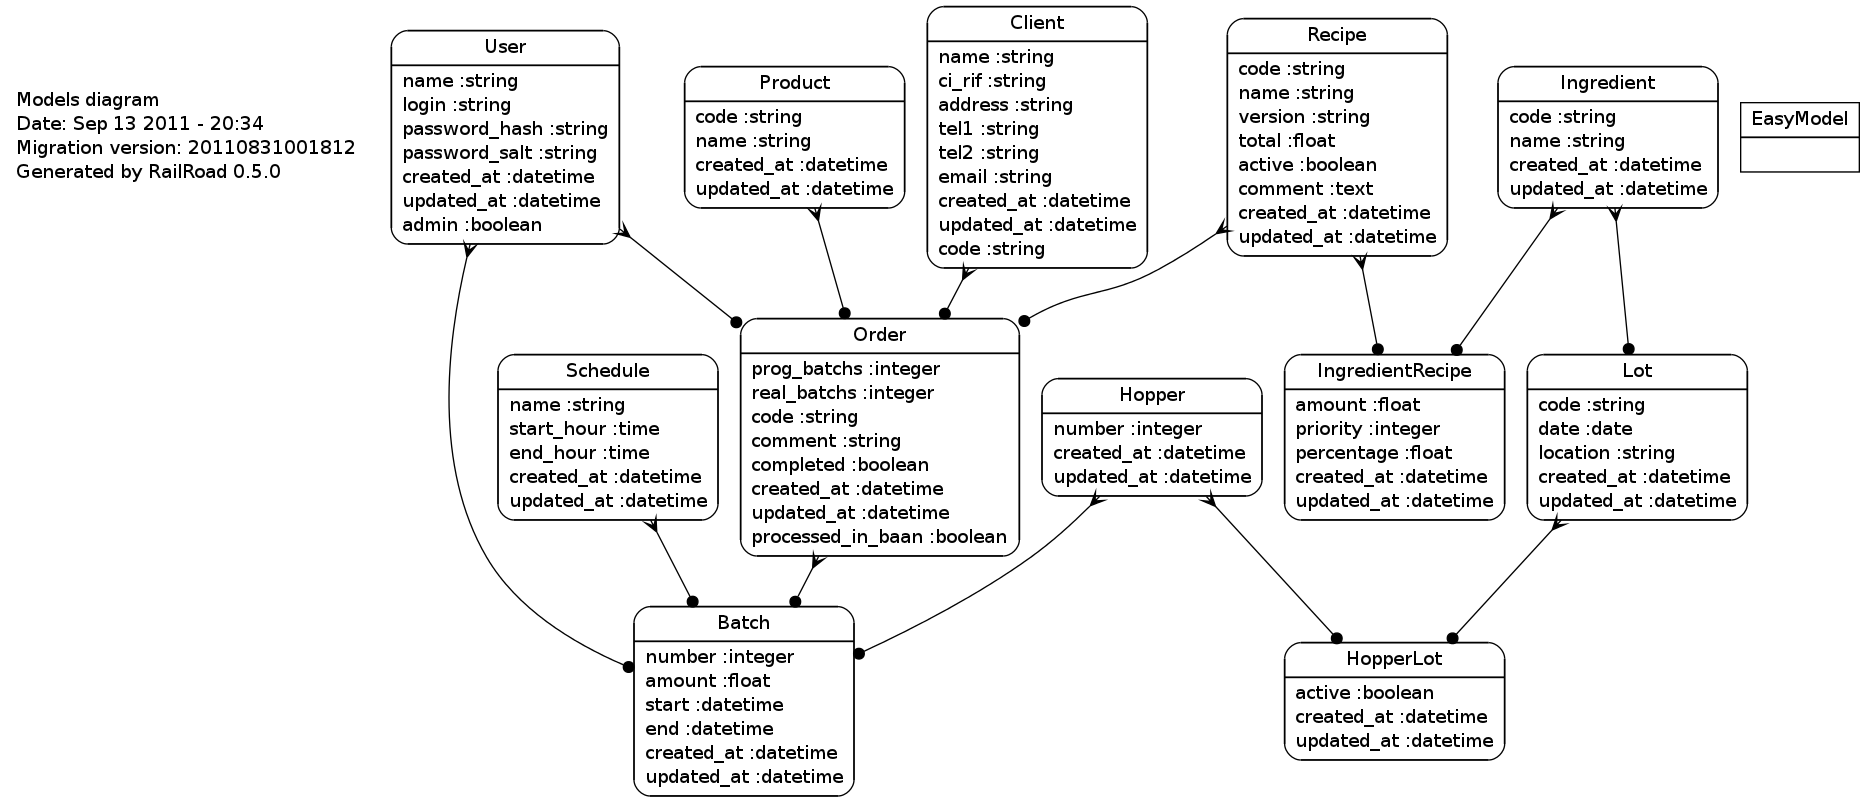
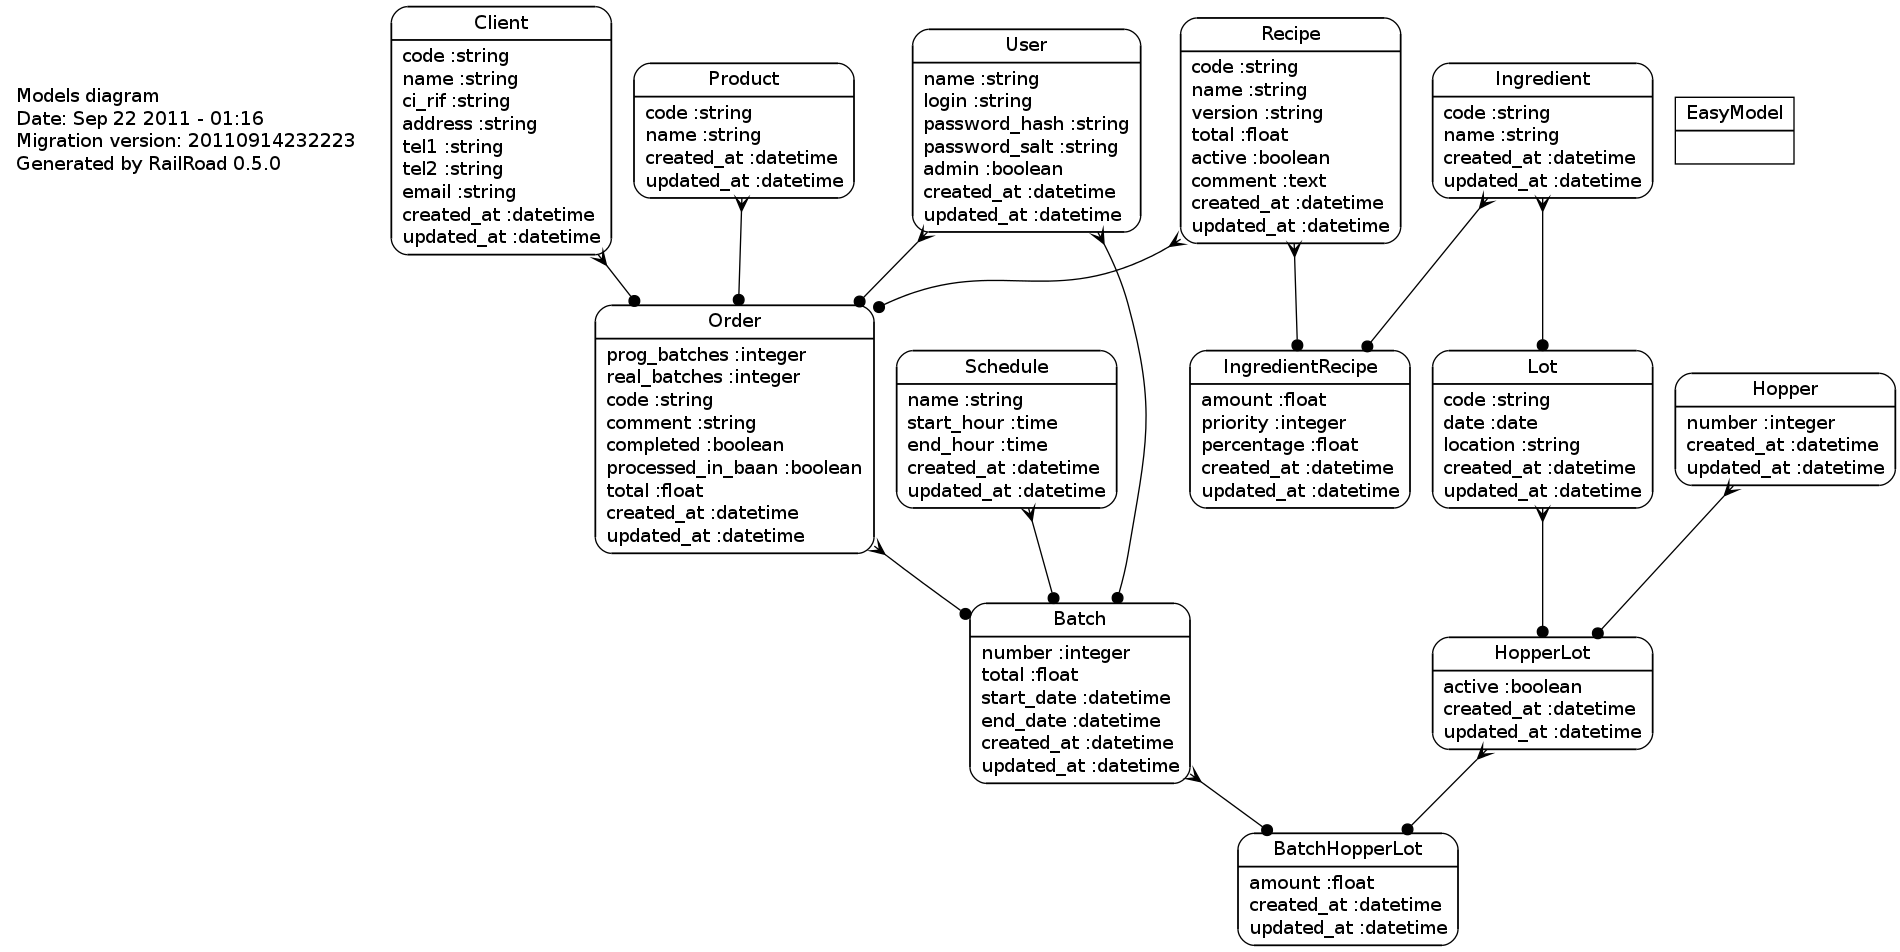
Improved db strucuture for support batch details

Changed region(s): [[0.0, 0.0, 1.0, 0.9963], [0.3112, 0.7472, 0.4667, 0.9963]]

diff --git a/db/schema.rb b/db/schema.rb
@@ -10,27 +10,37 @@
 #
 # It's strongly recommended to check this file into your version control system.
 
-ActiveRecord::Schema.define(:version => 20110913235049) do
+ActiveRecord::Schema.define(:version => 20110914232223) do
 
-  create_table "batches", :force => true do |t|
-    t.integer  "order_id"
-    t.integer  "hopper_id"
-    t.integer  "schedule_id"
-    t.integer  "user_id"
-    t.integer  "number"
-    t.float    "amount"
-    t.datetime "start"
-    t.datetime "end"
+  create_table "batch_hoppers_lots", :force => true do |t|
+    t.integer  "batch_id"
+    t.integer  "hopper_lot_id"
+    t.float    "amount",        :null => false
     t.datetime "created_at"
     t.datetime "updated_at"
   end
 
-  add_index "batches", ["hopper_id"], :name => "fk_batches_hopper_id"
+  add_index "batch_hoppers_lots", ["batch_id"], :name => "fk_batch_hoppers_lots_batch_id"
+  add_index "batch_hoppers_lots", ["hopper_lot_id"], :name => "fk_batch_hoppers_lots_hopper_lot_id"
+
+  create_table "batches", :force => true do |t|
+    t.integer  "order_id"
+    t.integer  "schedule_id"
+    t.integer  "user_id"
+    t.integer  "number"
+    t.float    "total"
+    t.datetime "start_date"
+    t.datetime "end_date"
+    t.datetime "created_at"
+    t.datetime "updated_at"
+  end
+
   add_index "batches", ["order_id"], :name => "fk_batches_order_id"
   add_index "batches", ["schedule_id"], :name => "fk_batches_schedule_id"
   add_index "batches", ["user_id"], :name => "fk_batches_user_id"
 
   create_table "clients", :force => true do |t|
+    t.string   "code",       :null => false
     t.string   "name",       :null => false
     t.string   "ci_rif",     :null => false
     t.string   "address"
@@ -39,7 +49,6 @@ ActiveRecord::Schema.define(:version => 20110913235049) do
     t.string   "email"
     t.datetime "created_at"
     t.datetime "updated_at"
-    t.string   "code",       :null => false
   end
 
   create_table "hoppers", :force => true do |t|
@@ -95,15 +104,15 @@ ActiveRecord::Schema.define(:version => 20110913235049) do
     t.integer  "client_id"
     t.integer  "user_id"
     t.integer  "product_id"
-    t.integer  "prog_batchs",                          :null => false
-    t.integer  "real_batchs"
+    t.integer  "prog_batches",                         :null => false
+    t.integer  "real_batches"
     t.string   "code",                                 :null => false
     t.string   "comment"
     t.boolean  "completed",         :default => false
-    t.datetime "created_at"
-    t.datetime "updated_at"
     t.boolean  "processed_in_baan", :default => false
     t.float    "total"
+    t.datetime "created_at"
+    t.datetime "updated_at"
   end
 
   add_index "orders", ["client_id"], :name => "fk_orders_client_id"
@@ -142,9 +151,9 @@ ActiveRecord::Schema.define(:version => 20110913235049) do
     t.string   "login",                            :null => false
     t.string   "password_hash",                    :null => false
     t.string   "password_salt",                    :null => false
+    t.boolean  "admin",         :default => false
     t.datetime "created_at"
     t.datetime "updated_at"
-    t.boolean  "admin",         :default => false
   end
 
 end

diff --git a/app/controllers/batches_hopper_lot_controller.rb b/app/controllers/batches_hopper_lot_controller.rb
@@ -1,0 +1,33 @@
+class BatchesHopperLotController < ApplicationController
+
+  def create
+    if not params[:batch_hopper_lot][:amount].blank? or not params[:batch_hopper_lot][:hopper_lot_id].blank?
+      b = BatchHopperLot.new params[:batch_hopper_lot]
+      b.batch_id = params[:batch_id]
+      if b.valid?
+        b.save
+        flash[:notice] = "Detalle agregado al batch"
+      else
+        flash[:notice] = "No se pudo guardar el detalle"
+        flash[:type] = 'error'
+      end
+    else
+      flash[:notice] = "Por favor coloque datos válidos"
+      flash[:type] = 'error'
+    end
+    redirect_to edit_batche_path(params[:batch_id])
+  end
+
+  def destroy
+    begin
+      b = BatchHopperLot.find(params[:id])
+      b.destroy
+      flash[:notice] = "Detalle eliminado del batch"
+    rescue Exception => ex
+      flash[:notice] = "No se pudo borrar el detalle del batch"
+      flash[:type] = 'error'
+    end
+
+    redirect_to edit_batche_path(params[:batch_id])
+  end
+end

diff --git a/db/migrate/20110823041331_create_batches.rb b/db/migrate/20110823041331_create_batches.rb
@@ -5,25 +5,21 @@ extend MigrationHelper
   def self.up
     create_table :batches do |t|
       t.references :order
-      t.references :hopper
       t.references :schedule
       t.references :user
       t.integer :number
-      t.float :amount
-      t.timestamp :start
-      t.timestamp :end
+      t.float :total
+      t.timestamp :start_date
+      t.timestamp :end_date
       t.timestamps
     end
     add_foreign_key 'batches', 'order_id', 'orders'
-    add_foreign_key 'batches', 'hopper_id', 'hoppers'
     add_foreign_key 'batches', 'schedule_id', 'schedules'
     add_foreign_key 'batches', 'user_id', 'users'
   end
 
   def self.down
     drop_foreign_key 'batches', 'order_id'
-    drop_foreign_key 'batches', 'recipe_id'
-    drop_foreign_key 'batches', 'hopper_id'
     drop_foreign_key 'batches', 'schedule_id'
     drop_foreign_key 'batches', 'user_id'
     drop_table :batches

diff --git a/app/models/batch.rb b/app/models/batch.rb
@@ -1,12 +1,19 @@
 class Batch < ActiveRecord::Base
   belongs_to :order
-  belongs_to :hopper
   belongs_to :schedule
   belongs_to :user
+  has_many :batch_hopper_lot
 
   validates_uniqueness_of :order_id, :scope => [:number]
-  validates_presence_of :order, :hopper, :schedule, :user, :start, :end
+  validates_presence_of :order, :schedule, :user, :start_date, :end_date
   validates_numericality_of :number, :only_integer => true, :greater_than_or_equal_to => 0
-  validates_numericality_of :amount, :greater_than_or_equal_to => 0
-  validates_associated :order, :hopper, :schedule, :user
+  validates_numericality_of :total, :greater_than_or_equal_to => 0
+  validates_associated :order, :schedule, :user
+  
+  before_validation :validates_total
+
+  def validates_total
+    self.total = 0 if self.total.nil?
+    return true
+  end
 end

diff --git a/config/routes.rb b/config/routes.rb
@@ -11,8 +11,10 @@ ActionController::Routing::Routes.draw do |map|
   match 'reports/recipes' => "reports#recipes", :via => :get, :as => "recipes_report"
   match 'reports/daily_production' => "reports#daily_production", :via => :get, :as => "daily_production_report"
   match 'reports/order_details' => "reports#order_details", :via => :get, :as => "order_details_report"
-
+  match 'batches/:batch_id/batches_hopper_lot' => "batches_hopper_lot#create", :via => :post, :as => "batches_hopper_lot"
+  match 'batches/:batch_id/batches_hopper_lot/:id' => "batches_hopper_lot#destroy", :via => :delete, :as => "batch_hopper_lot"
   resources :sessions, :users, :ingredients, :clients, :hoppers, :products, :orders, :lots, :schedules, :batches
+
   resources :recipes do
     resources :ingredients_recipes
   end

diff --git a/app/models/order.rb b/app/models/order.rb
@@ -7,14 +7,14 @@ class Order < ActiveRecord::Base
   
   validates_presence_of :recipe_id, :user_id
   validates_uniqueness_of :code
-  validates_numericality_of :prog_batchs, :real_batchs, :only_integer => 0, :greater_than_or_equal_to => 0
+  validates_numericality_of :prog_batches, :real_batches, :only_integer => 0, :greater_than_or_equal_to => 0
   validates_numericality_of :total
   validates_associated :recipe, :client, :user
 
   before_validation :validates_real_batchs
 
   def validates_real_batchs
-    self.real_batchs = 0 if self.real_batchs.nil?
+    self.real_batches = 0 if self.real_batches.nil?
     self.total = 0 if self.total.nil?
     return true
   end

diff --git a/app/models/batch_hopper_lot.rb b/app/models/batch_hopper_lot.rb
@@ -1,0 +1,26 @@
+class BatchHopperLot < ActiveRecord::Base
+  belongs_to :hopper_lot
+  belongs_to :batch
+
+  validates_uniqueness_of :batch_id, :scope => [:hopper_lot_id]
+  validates_associated :batch, :hopper_lot
+  validates_numericality_of :amount, :greater_than_or_equal_to => 0
+
+  after_save :calculate_incr
+  after_destroy :calculate_decr
+
+  def calculate_incr
+    puts "amount: #{self.amount}"
+    b = Batch.find self.batch_id
+    b.total += self.amount
+    b.save
+    puts b.errors.inspect
+  end
+
+  def calculate_decr
+    b = Batch.find self.batch_id
+    b.total -= self.amount
+    b.save
+    puts b.errors.inspect
+  end
+end

diff --git a/db/migrate/20110914232223_create_batch_hoppers_lots.rb b/db/migrate/20110914232223_create_batch_hoppers_lots.rb
@@ -1,0 +1,21 @@
+require 'migration_helper'
+
+class CreateBatchHoppersLots < ActiveRecord::Migration
+extend MigrationHelper
+  def self.up
+    create_table :batch_hoppers_lots do |t|
+      t.references :batch
+      t.references :hopper_lot
+      t.float :amount, :null => false
+      t.timestamps
+    end
+    add_foreign_key 'batch_hoppers_lots', 'batch_id', 'batches'
+    add_foreign_key 'batch_hoppers_lots', 'hopper_lot_id', 'hoppers_lots'
+  end
+
+  def self.down
+    drop_foreign_key 'batch_hoppers_lots', 'batch_id'
+    drop_foreign_key 'batch_hoppers_lots', 'hopper_lot_id'
+    drop_table :batch_hoppers_lots
+  end
+end

diff --git a/db/migrate/20110616183547_create_orders.rb b/db/migrate/20110616183547_create_orders.rb
@@ -8,11 +8,13 @@ extend MigrationHelper
       t.references :client
       t.references :user
       t.references :product
-      t.integer :prog_batchs, :null => false
-      t.integer :real_batchs
+      t.integer :prog_batches, :null => false
+      t.integer :real_batches
       t.string :code, :null => false
       t.string :comment
       t.boolean :completed, :default => false
+      t.boolean :processed_in_baan, :default => false
+      t.float :total
       t.timestamps :register_date
       t.timestamps :start_date
       t.timestamps :end_date

diff --git a/app/controllers/ingredients_recipes_controller.rb b/app/controllers/ingredients_recipes_controller.rb
@@ -5,7 +5,6 @@ class IngredientsRecipesController < ApplicationController
   end
 
   def create
-    puts params.inspect
     unless params[:ingredient_recipe][:code].blank?
       @recipe = Recipe.find(params[:recipe_id], :include=>'ingredient_recipe')
       ingredient = Ingredient.find_by_code(params[:ingredient_recipe][:code])

diff --git a/db/migrate/20110428015543_create_users.rb b/db/migrate/20110428015543_create_users.rb
@@ -5,6 +5,7 @@ class CreateUsers < ActiveRecord::Migration
       t.string :login, :null => false
       t.string :password_hash, :null => false
       t.string :password_salt, :null => false
+      t.boolean :admin, :default => false
       t.timestamps
     end
   end

diff --git a/db/migrate/20110614001953_create_clients.rb b/db/migrate/20110614001953_create_clients.rb
@@ -1,6 +1,7 @@
 class CreateClients < ActiveRecord::Migration
   def self.up
     create_table :clients do |t|
+      t.string :code, :null => false
       t.string :name, :null => false
       t.string :ci_rif, :null => false
       t.string :address
